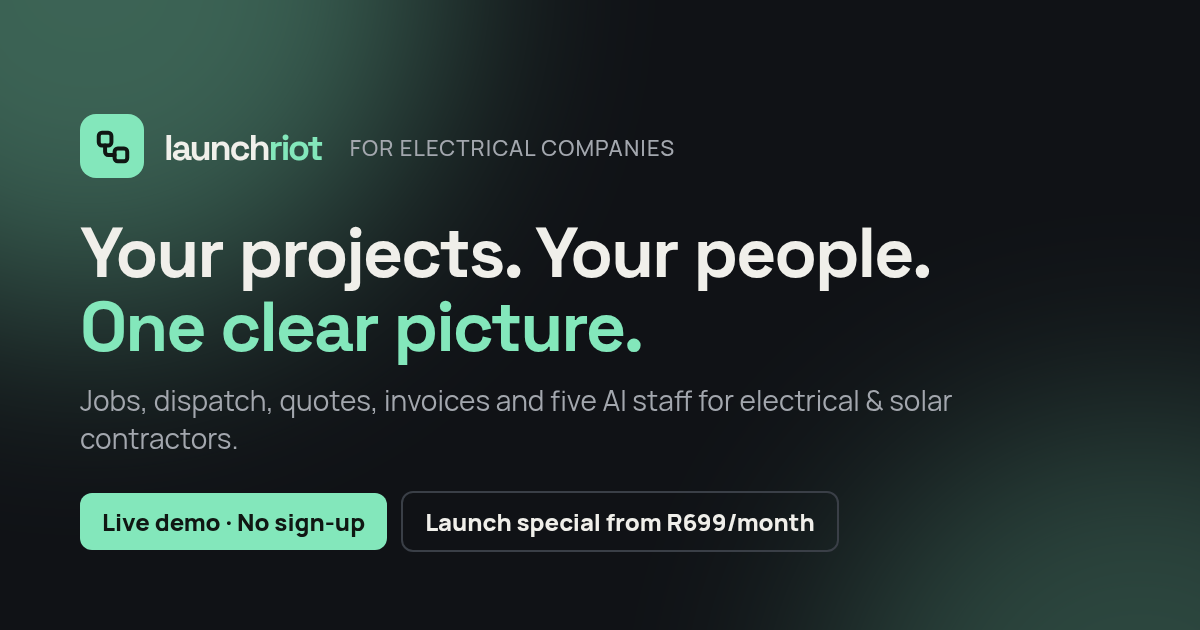
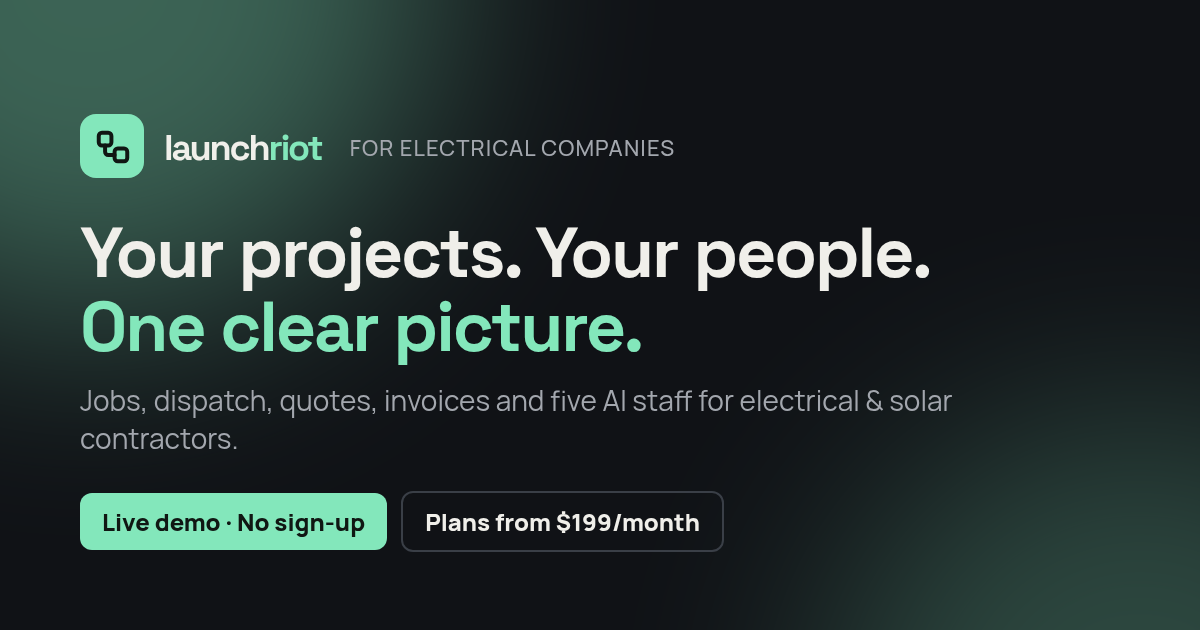
New USD pricing: Starter $199, Growth $249, Extreme / Heavy usage $499

Changed region(s): [[0.3392, 0.8143, 0.6783, 0.8444], [0.6167, 0.754, 0.6783, 0.7841]]

diff --git a/app.js b/app.js
@@ -19,21 +19,21 @@ function fake(what){D.sent.unshift({t:new Date().toLocaleString(),what});save();
 const cust=id=>D.customers.find(c=>c.id==id)?.name||'',tech=id=>D.techs.find(t=>t.id==id)?.name||'';
 const pill=s=>`<span class="pill ${s.toLowerCase().split(' ').pop()}">${s}</span>`;
 const tbl=(h,rows)=>`<div class="tw"><table><tr>${h.map(x=>`<th>${x}</th>`).join('')}</tr>${rows.map(r=>`<tr>${r.map(x=>`<td>${x}</td>`).join('')}</tr>`).join('')}</table></div>`;
-const PLANS=[{n:'Starter',was:999,now:699,bots:'Full system with the Support bot'},{n:'Growth',was:1299,now:999,bots:'Support, Sales and Dispatch bots',pop:1},{n:'Full Ops',was:1999,now:1499,bots:'All 5 bots (Support, Sales, Marketing, Dispatch and Finance) plus priority setup'}];
 const INCL=['Projects, scheduling & site work records','Customers, quotes, invoices & materials','Monthly finance reports & exports','Human approval controls for every AI action'];
-function pricing(){return `<div class="hero" style="padding:40px 20px 24px"><div class="eyebrow">🚀 LAUNCH SPECIAL · FIRST 3 MONTHS</div><h1>Pick your crew. <span class="grad">Lock in launch pricing.</span></h1><p class="muted">Per company, per month, in rand. The full system is included on every plan, with no charge per technician.</p></div><div class="wrap">
-<div class="plans">${PLANS.map(p=>`<div class="plan ${p.pop?'pop':''}"><span class="badge">LAUNCH SPECIAL</span>${p.pop?'<span class="badge2">MOST POPULAR</span>':''}<h2 style="margin:6px 0">${p.n}</h2>
-<div class="was">${R(p.was)}/month</div><div class="now">${R(p.now)}<span>/month</span></div><div class="for3">for 3 months</div><div class="muted">${R(p.was)}/month from month 4</div>
-<ul><li><b>${p.bots}</b></li>${INCL.map(i=>`<li>${i}</li>`).join('')}</ul><a class="btn ${p.pop?'':'dark'}" href="https://launchriot.online" target="_blank">Book a setup call</a></div>`).join('')}</div>
-<p class="muted" style="text-align:center;margin-top:26px">After 3 months the regular price applies. Per company · South African rand · Full system included.<br>This is a public demo. No payment details are collected and no subscription is started here.</p>
-<div class="card" style="max-width:520px;margin:20px auto;text-align:center"><b>Setup from R1,500</b><div class="muted">One-time setup, separate from the subscription. Discuss your data import and onboarding at your setup call.</div></div></div>`}
+const PLANS=[{n:'Starter',now:199,bots:'Support bot',f:['Full system included','Standard usage','Email & WhatsApp support']},{n:'Growth',now:249,bots:'Support, Sales and Dispatch bots',pop:1,f:['Full system included','More usage for busier teams','Priority WhatsApp support']},{n:'Extreme / Heavy usage',now:499,bots:'All 5 bots: Support, Sales, Marketing, Dispatch and Finance',f:['Full system included','Highest usage limits for heavy workloads','Priority setup & dedicated support']}];
+const USD=n=>'$'+n;
+function pricing(){return `<div class="hero" style="padding:40px 20px 24px"><div class="eyebrow">PLANS &amp; PRICING</div><h1>Pick your crew. <span class="grad">Simple monthly plans.</span></h1><p class="muted">Per company, per month, in USD. No charge per technician.</p></div><div class="wrap">
+<div class="plans">${PLANS.map(p=>`<div class="plan ${p.pop?'pop':''}">${p.pop?'<span class="badge2">MOST POPULAR</span>':''}<h2 style="margin:6px 0">${p.n}</h2>
+<div class="now">${USD(p.now)}<span>/month</span></div><div class="muted">USD, billed monthly</div>
+<ul><li><b>${p.bots}</b></li>${p.f.map(i=>`<li>${i}</li>`).concat(INCL.map(i=>`<li>${i}</li>`)).join('')}</ul><a class="btn ${p.pop?'':'dark'}" href="https://launchriot.online" target="_blank">Book a setup call</a></div>`).join('')}</div>
+<p class="muted" style="text-align:center;margin-top:26px">Prices in USD per month. The full system is included on every plan.<br>This is a public demo. No payment details are collected and no subscription is started here.</p></div>`}
 function home(){return `<div class="hero"><div class="eyebrow">BUILT FOR ELECTRICAL &amp; SOLAR CONTRACTORS · <span class="live">LIVE DEMO</span></div><h1>Your projects. Your people.<br><span class="grad">One clear picture.</span></h1><p class="muted">From the first &ldquo;my DB board keeps tripping&rdquo; message to the final paid invoice. Five AI staff handle the admin around the clock. You approve, they get it done.</p>
 <p><a class="btn pulse" href="#/app/dashboard">Try the demo</a> &nbsp; <a class="btn dark" href="#/pricing">See plans</a></p><p class="muted">No sign-up. No card. Click around a working system.</p></div>
 <div class="wrap"><div class="grid ticker reveal"><div class="card stat"><b id="k1">20</b>jobs on the board</div><div class="card stat"><b id="k2">R141,500</b>invoiced this month</div><div class="card stat"><b id="k3">312</b>bot messages handled</div><div class="card stat"><b id="k4">4</b>technicians on site</div></div><p class="muted" style="text-align:center;margin:8px 0 0">Example figures from the sample workspace.</p><br>
 <div class="grid"><div class="card chat reveal" id="hc"><b>🤖 AI staff, live</b> <span class="live">ONLINE</span><div id="hcm"></div></div>
 <div class="card reveal"><h3>Follow the whole project</h3>Tender, estimate, schedule, site record and invoice. Try the workflow end to end.<h3>See every perspective</h3>Switch between Owner, Office and Technician.<h3>Bring finance into focus</h3>Sample invoices, monthly records and downloadable finance reports.</div></div><br>
 <h2 class="sect reveal">Why contractors switch</h2><div class="grid"><div class="card reveal"><h3>Stop losing jobs to slow replies</h3><p class="muted">Enquiries come in at 9pm and on Sundays. Your Support and Sales bots answer straight away, ask the right questions and book the visit, so the job doesn&rsquo;t go to whoever picked up first.</p></div><div class="card reveal"><h3>Every job, one board</h3><p class="muted">Leads, quotes, scheduling, job cards, COC readings, site photos and invoices sit in one place. No more chasing the WhatsApp group to find out who did what.</p></div><div class="card reveal"><h3>Know where the money is</h3><p class="muted">See what&rsquo;s invoiced, what&rsquo;s paid and what&rsquo;s overdue. Monthly finance reports export in one click, ready for your bookkeeper.</p></div><div class="card reveal"><h3>You stay in charge</h3><p class="muted">Nothing goes out to a client without your OK. Every reminder, post and schedule change the AI suggests waits in your approval queue until you say yes.</p></div></div><br><div class="eyebrow sect" style="text-align:center">MEET YOUR AI STAFF</div><h2 class="sect reveal">Five bots. One job each. All on your side.</h2><div class="grid bots"><div class="card reveal"><div class="boticon">🛟</div><h3>Support bot</h3><p class="muted">Answers customer messages any time of day. Works out whether it&rsquo;s one breaker or the earth leakage, gives your call-out rate and books a fault-finding slot.</p></div><div class="card reveal"><div class="boticon">💼</div><h3>Sales bot</h3><p class="muted">Handles quote requests for solar, inverters, DB upgrades and EV chargers. Asks about the power bill, roof type and backup needs, then drafts the quote and follows it up.</p></div><div class="card reveal"><div class="boticon">📣</div><h3>Marketing bot</h3><p class="muted">Turns finished jobs into ready-to-post updates for your socials. A solar install becomes a post with photos. It waits for your approval before anything goes live.</p></div><div class="card reveal"><div class="boticon">🚐</div><h3>Dispatch bot</h3><p class="muted">Keeps your technicians moving. When a tech marks a job done and sends photos, it updates the job card and points them to the next site. Need to move a job? It suggests the change for you to approve.</p></div><div class="card reveal"><div class="boticon">💸</div><h3>Finance bot</h3><p class="muted">Sends you a daily wrap-up: jobs done, amounts invoiced, what&rsquo;s overdue. It drafts payment reminders for overdue invoices and holds them until you approve.</p></div></div><br><div class="card example reveal"><img src="logo.png" alt="Zurcher's Electrical logo"><div><span class="tag">EXAMPLE</span><h2>A system branded for Zurcher's Electrical</h2><p>Your logo, your colours, your team. This is what your company gets on day one. Sample data only.</p><a class="btn" href="#/app/dashboard">Open the Zurcher's example</a></div></div>
-<div class="card reveal" style="text-align:center;margin-top:20px"><div class="eyebrow">YOUR COMPANY COULD BE NEXT</div><h2>Less admin. <span class="grad">More time on the tools.</span></h2><p>Launch special from <b>R699/month</b> for your first 3 months.</p><p><a class="btn pulse" href="#/app/dashboard">Try the demo</a> &nbsp; <a class="btn dark" href="https://launchriot.online" target="_blank">Book a setup call</a></p></div></div>`}
+<div class="card reveal" style="text-align:center;margin-top:20px"><div class="eyebrow">YOUR COMPANY COULD BE NEXT</div><h2>Less admin. <span class="grad">More time on the tools.</span></h2><p>Plans from <b>$199/month</b>.</p><p><a class="btn pulse" href="#/app/dashboard">Try the demo</a> &nbsp; <a class="btn dark" href="https://launchriot.online" target="_blank">Book a setup call</a></p></div></div>`}
 const CH=[['in','Customer: our DB board keeps tripping 😩'],['bot','Support bot: booked fault-finding tomorrow 09:00 ✅'],['in','Sipho: J1003 done, photos attached 📷'],['bot','Dispatch bot: next job, Kopje Logistics 13:30 🚐'],['bot','Finance bot: R54,700 invoiced today, 2 reminders awaiting approval 💸']];
 let tmr=[];function stopFx(){tmr.forEach(clearTimeout);tmr.forEach(clearInterval);tmr=[]}
 function typeChat(el,list){if(!el)return;el.innerHTML='';let i=0;const step=()=>{if(i>=list.length){tmr.push(setTimeout(()=>typeChat(el,list),4000));return}const [c,t]=list[i++];const d=document.createElement('div');d.className='msg '+c;d.innerHTML='<span class="typing"><i></i><i></i><i></i></span>';el.appendChild(d);tmr.push(setTimeout(()=>{d.textContent=t;tmr.push(setTimeout(step,900))},900))};step()}
